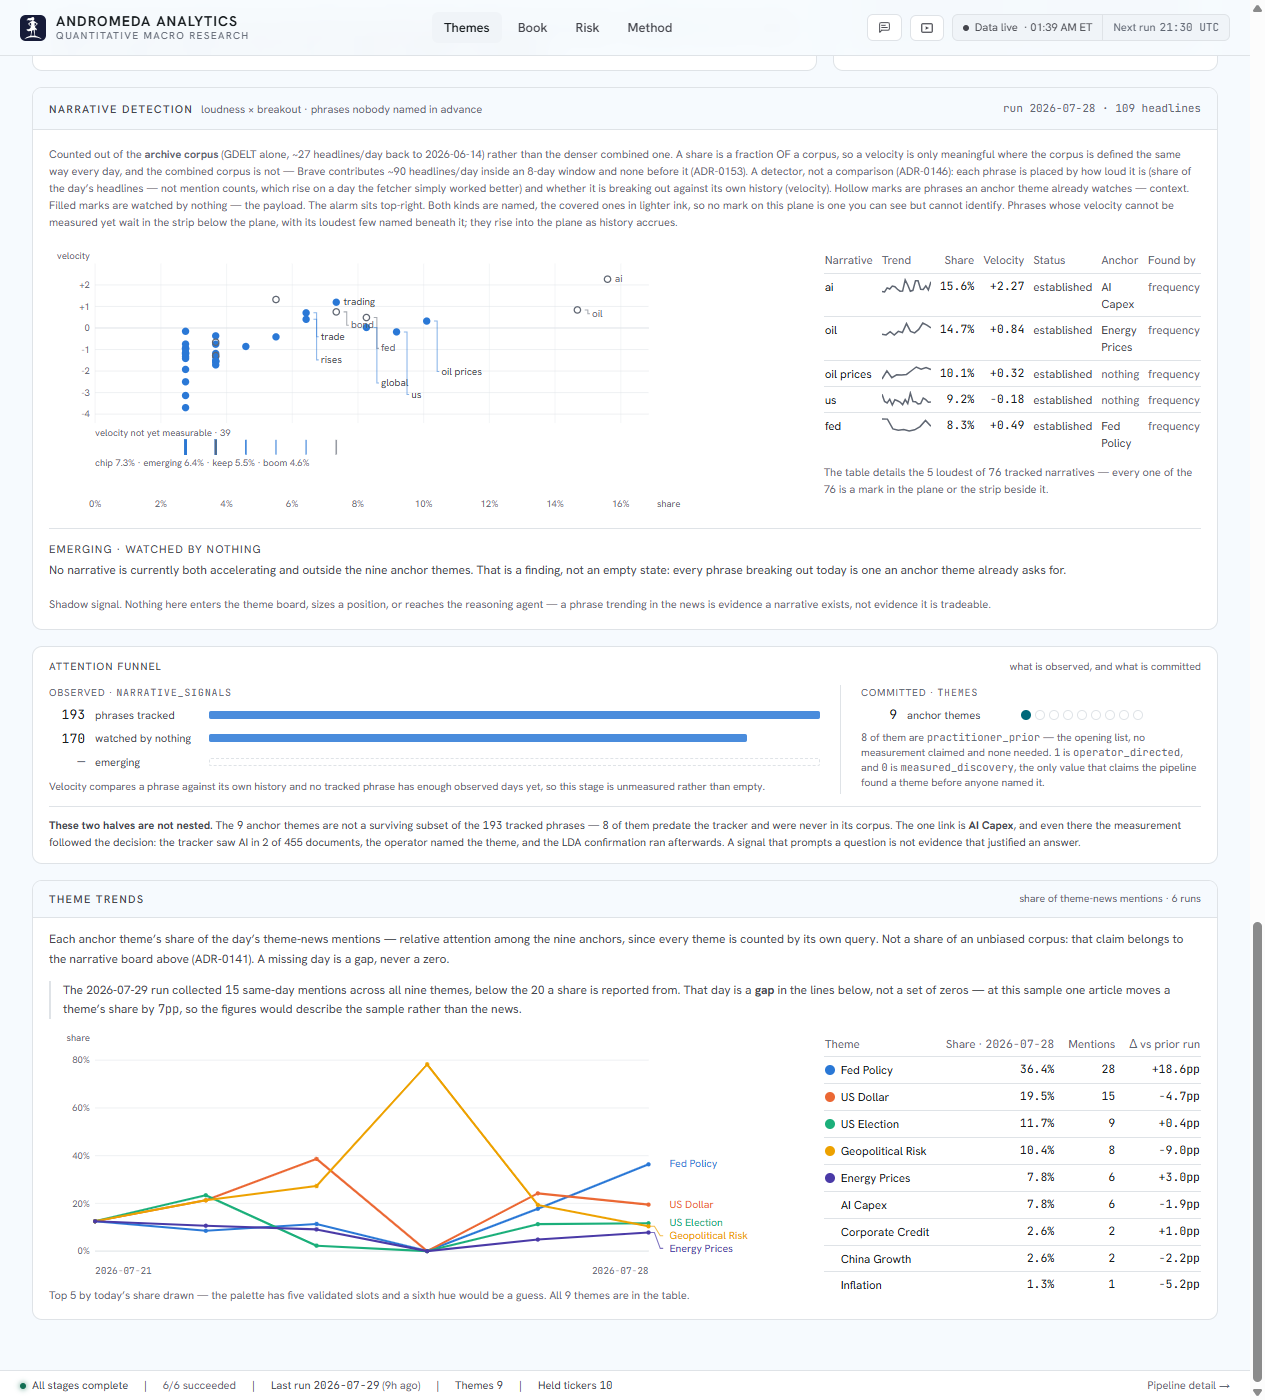
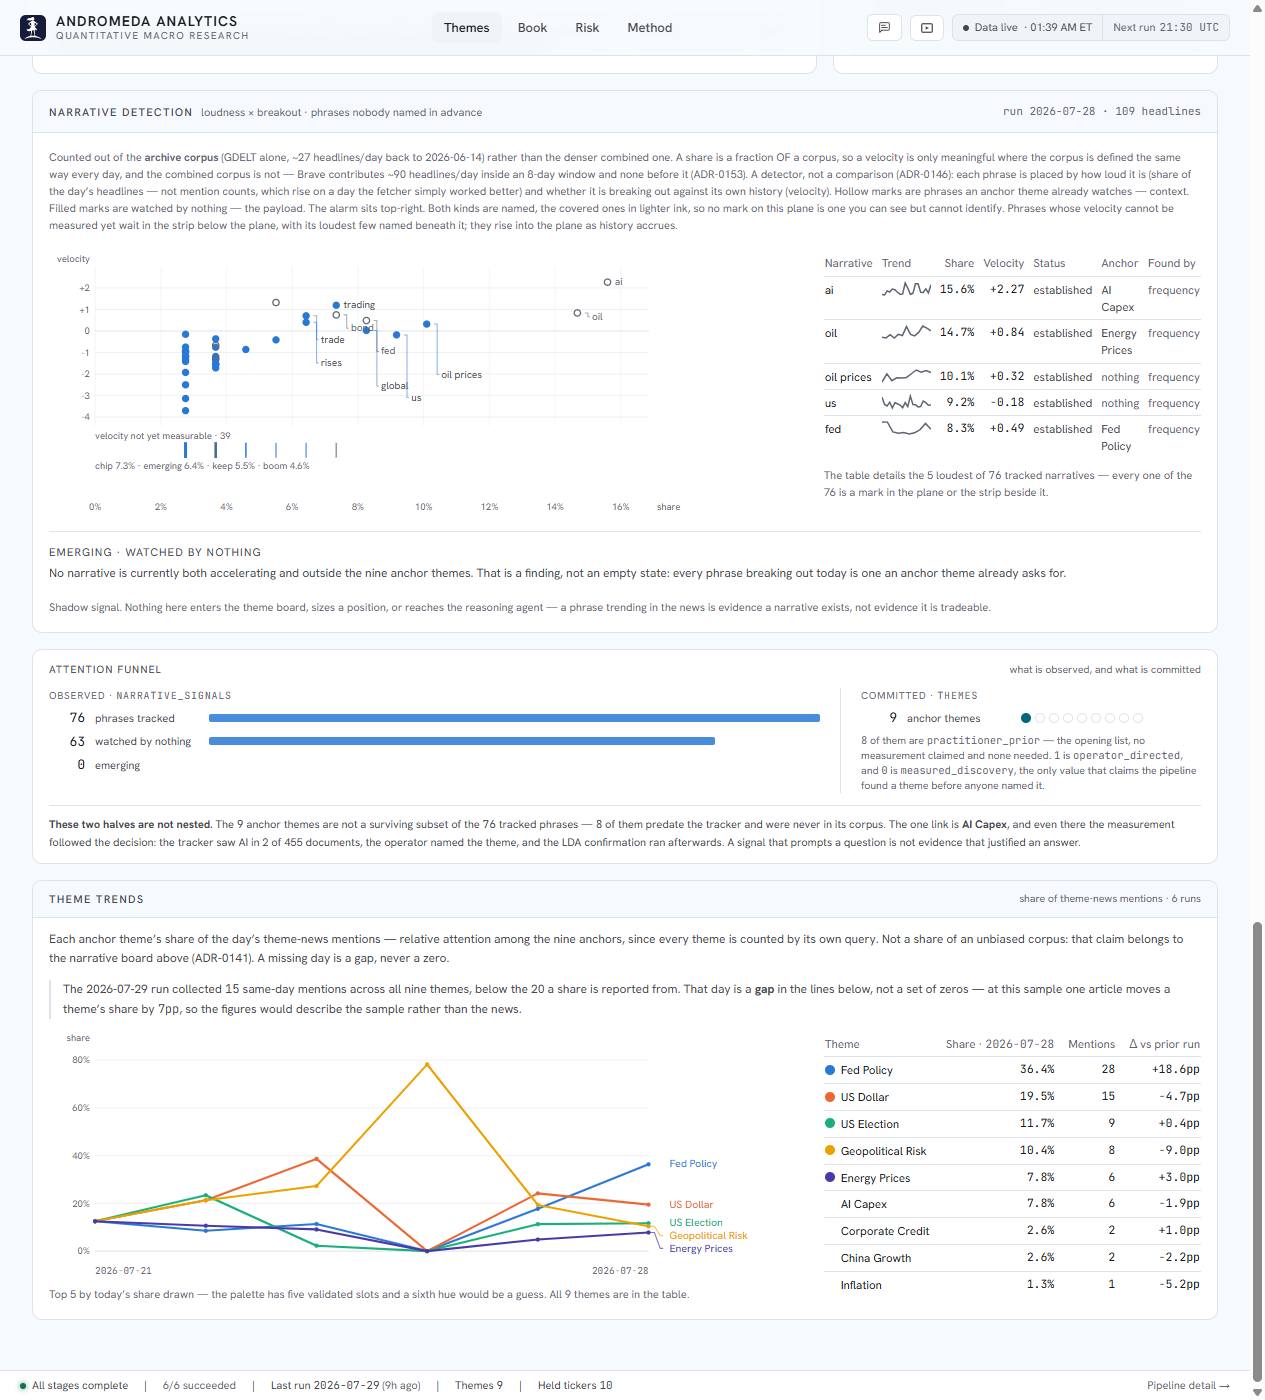
fix(ui): the funnel read a different corpus than the board above it
AttentionFunnel called fetchNarratives(), whose default is
corpus: "combined". NarrativeTrends passes "archive". So the strip read
193 phrases tracked and "velocity not measurable yet" directly beneath
a board showing 76 tracked and velocities up to +2.27.

Both were correct about their own corpus and the pair was incoherent —
the comparability failure ADR-0155 names, and the reason ADR-0153 moved
the board to archive in the first place: combined holds one run_date
and zero measurable velocities, because Brave contributes ~90
headlines/day inside an 8-day window and none before it.

Matching the corpus is necessary and not sufficient. The board also
applies ADR-0159's fallback — if the newest day has no measurable
velocity, read the most recent day that does — so a funnel keyed to
max(run_date) would still disagree on the thinnest publication day,
which is structurally every day GDELT lags. Both fixes, plus the
board's disclosure of which day the counts are from.

Switching corpora exposed a second defect: on archive the emerging
stage is measurable and reads a measured 0, and the bar's
Math.max(share*100, 1.5) floor rendered that zero as a 1.5% stub that
reads as "a few". Floored only above zero now — the same ADR-0066
distinction the dashed unmeasurable track protects one row up.

Strip now reads 76 / 63 / 0 against the board's 76, and the 0 agrees
with the board's own prose finding.

875 tests green, tsc clean, no console errors.

diff --git a/frontend/components/AttentionFunnel.tsx b/frontend/components/AttentionFunnel.tsx
@@ -46,6 +46,7 @@ import { supabase } from "@/lib/supabase";
 import {
   attentionFunnel,
   fetchNarratives,
+  latestMeasuredDate,
   toSeries,
   type AttentionFunnelCounts,
 } from "@/lib/narratives";
@@ -94,7 +95,11 @@ function ObservedBar({
         <span
           className="block h-2 rounded-sm"
           style={{
-            width: `${Math.max(share * 100, 1.5)}%`,
+            // The 1.5% floor keeps a small NON-ZERO stage visible; it must not
+            // apply at zero, or a measured 0 renders as a stub bar that reads as
+            // "a few". Zero and nearly-zero are different readings, and the
+            // figure beside the bar is already the record either way.
+            width: share > 0 ? `${Math.max(share * 100, 1.5)}%` : "0%",
             background: "var(--series-1)",
             opacity: 0.85,
           }}
@@ -107,10 +112,38 @@ function ObservedBar({
 export default function AttentionFunnel() {
   const [funnel, setFunnel] = useState<AttentionFunnelCounts | null>(null);
   const [basis, setBasis] = useState<ThemeBasis | null>(null);
+  /** Non-null when the counts are from an EARLIER day than the newest run,
+   *  because the newest carried no measurable velocity. Same fallback and same
+   *  disclosure as the board — see the corpus note in the effect below. */
+  const [asOfFallback, setAsOfFallback] = useState<string | null>(null);
 
   useEffect(() => {
-    fetchNarratives().then(({ rows, error }) => {
-      if (!error) setFunnel(attentionFunnel(toSeries(rows)));
+    // THE SAME SERIES THE BOARD ABOVE READS, on both axes that can differ.
+    //
+    // This defaulted to `fetchNarratives()` — i.e. `corpus: "combined"` — while
+    // NarrativeTrends reads `"archive"`. Two corpora on one screen, in a strip
+    // positioned as the summary of the board directly above it: the funnel said
+    // 193 tracked and "velocity not measurable yet" over a board showing 76
+    // tracked and velocities up to +2.27. Both were correct about their own
+    // corpus and the pair was incoherent, which is the comparability failure
+    // ADR-0155 names and the exact reason ADR-0153 moved the board to `archive`
+    // (`combined` holds one run_date and zero measurable velocities, because
+    // Brave contributes ~90 headlines/day inside an 8-day window and none
+    // before it, so its composition changes as providers come and go).
+    //
+    // Matching the corpus is necessary and NOT sufficient. The board also
+    // applies ADR-0159's fallback — if the newest day carries no measurable
+    // velocity, read the most recent day that does — so a funnel keyed to
+    // max(run_date) would still disagree with it on the thinnest publication
+    // day, which is structurally every day GDELT lags. Both fixes, or the strip
+    // is coherent on the corpus and wrong on the date.
+    fetchNarratives(30, "archive").then(({ rows, error }) => {
+      if (error) return;
+      const newest = toSeries(rows);
+      const measurable = newest.some((s) => s.latest.velocity !== null);
+      const measuredDay = measurable ? null : latestMeasuredDate(rows);
+      setFunnel(attentionFunnel(measuredDay ? toSeries(rows, measuredDay) : newest));
+      setAsOfFallback(measuredDay);
     });
     supabase
       .from("themes")
@@ -157,6 +190,17 @@ export default function AttentionFunnel() {
         <div className="flex flex-col gap-1.5 min-w-0">
           <span className="text-[10px] uppercase tracking-[0.08em] text-text-tertiary">
             Observed &middot; <code className="num">narrative_signals</code>
+            {/* The day these counts are FROM, whenever it is not the newest run.
+                Stated for the same reason the board states it (ADR-0159): a
+                count keyed to one day under a heading implying another is the
+                mislabel, not the fallback. */}
+            {asOfFallback && (
+              <>
+                {" "}
+                &middot; <span className="num">{asOfFallback}</span>, last
+                measured day
+              </>
+            )}
           </span>
           {funnel && (
             <>

diff --git a/PROGRESS.md b/PROGRESS.md
@@ -34,6 +34,7 @@ docs/
 
 | Date | Entry |
 |---|---|
+| 2026-07-29 | **The funnel and the board it sits between were reading different corpora — 193 tracked over a chart showing 76.** Found while explaining the narrative/theme distinction, not by a test. `AttentionFunnel` called `fetchNarratives()`, whose default is `corpus: "combined"`; `NarrativeTrends` passes `"archive"`. So one strip said **193 phrases tracked** and *"velocity not measurable yet"* directly beneath a board reading **76 tracked** with velocities up to **+2.27**. Both were correct about their own corpus and the pair was incoherent — the comparability failure ADR-0155 names, and the exact reason ADR-0153 moved the board to `archive` (`combined` holds one `run_date` and zero measurable velocities, since Brave contributes ~90 headlines/day inside an 8-day window and none before it). **Matching the corpus was necessary and not sufficient:** the board also applies ADR-0159's fallback — if the newest day carries no measurable velocity, read the most recent day that does — so a funnel keyed to `max(run_date)` would still have disagreed on the thinnest publication day, which is structurally *every* day GDELT lags. Both fixes applied, plus the board's own disclosure of which day the counts are from when it is not the newest. **Switching corpora then exposed a second defect in the day-old strip:** on `archive` the emerging stage is genuinely measurable and reads a measured **0**, and the bar's `Math.max(share*100, 1.5)` floor — added so a small non-zero stage stays visible — rendered that zero as a 1.5% stub that reads as "a few". Floored only above zero now; zero and nearly-zero are different readings, which is the same ADR-0066 distinction the dashed unmeasurable track was already protecting one row up. Strip now reads **76 / 63 / 0** against the board's 76, and the 0 agrees with the board's own prose finding (*"No narrative is currently both accelerating and outside the nine anchor themes"*). 875 tests green, tsc clean, zero console errors. **Also verified while answering, and worth knowing:** `compute_edge_score()` in `backend/services/edge_signals.py:211` carries **signature defaults that no longer match the live config** — `w_trend=0.35, w_regime=0.25, w_carry=0.20, w_value=0.20, w_sentiment=0.0`, against `scoring_config`'s actual `trend 0.20 / regime 0.23 / carry 0.34 / value 0.18 / sentiment 0.05`. The defaults are dead in production (both call sites in `daily_refresh.py` pass every weight from `cfg`), but they invert which term is heaviest — Trend rather than Carry — so a reader of that function alone, or a test that calls it without weights, gets a different model than the one that ships. Left as-is pending a decision; noted so it is not re-derived from the signature. |
 | 2026-07-29 | **The attention funnel was made graphical, and making it graphical is what proved it was lying.** [ADR-0166](docs/adrs/0166-an-arrow-between-two-counts-is-a-claim-of-nesting.md). The strip read `193 phrases tracked → 170 watched by nothing → — emerging → 9 anchor themes · 1 promoted from a signal`. Asked to draw it, the obvious execution is one proportional funnel, width ∝ count — and that is **wrong**, because a funnel's visual grammar is *subset-of*. The first two stages genuinely nest (`unwatched ⊆ tracked`, same `narrative_signals` rows). The last does not. Queried live, `themes.promotion_basis` (migration 051 / ADR-0134) is **8 `practitioner_prior`** — migration 001's opening list, which predates the tracker and was never in its corpus — **1 `operator_directed`** (AI Capex), **0 `measured_discovery`**. So the arrow chain claimed nine themes survived from 193 phrases when the true number through that path is **at most one**, and a 9-wide bar under a 193-wide bar would have asserted it far more loudly than `→` did. **"Promoted from a signal" overstated even the one:** migration 051 records the ordering as tracker sees AI in **2 of 455 documents** → operator names the theme → LDA confirmation runs *after*, which is exactly why that theme is `operator_directed` and not `measured_discovery`. A signal that prompts a question is not evidence that justified an answer. Rebuilt as **two labelled halves** (`Observed · narrative_signals` ‖ `Committed · themes`): proportional bars inside the observed half **only**; the committed half as **nine pips on no shared scale**, one filled, so it cannot be read as a fraction of 193; **a rule between them, never an arrow**; the basis counts rendered by value — and **the zero is the informative figure**, since no theme on this board was found by the pipeline before a human named it. `practitioner_prior` is deliberately *not* framed as a deficiency (migration 051: a prior is a legitimate way to start a universe, and NULL evidence there is correct rather than missing). ADR-0066 unchanged and still binding: with no measurable velocity the emerging stage is a **dashed track with no width**, never a zero-length bar — which is precisely what a bar chart's default rendering of a null looks like. **A layout bug caught in the browser rather than reasoned about:** the first draft sized each bar as a percentage of the flex ROW, so with two fixed-width siblings `width: 100%` overshot the column and painted the longest bar straight over the committed half; the bar now sizes against its own `flex-1 min-w-0` track. **The page order deliberately does NOT change** — asked whether the Narrative card should precede all Theme cards since the funnel runs narrative → theme, the answer is no: reordering `/` to match a chronology that produced *one* of nine themes would encode the same false derivation in layout form, and the narrative board is shadow and sizes nothing (ADR-0128), so leading with it ranks pipeline chronology over reader value. Also in this change: the narrative figures table's **`Already watched by` header → `Anchor`**, the only one of seven that wrapped (three lines in a 53px column — a table column is sized by its widest WORD, and "watched" at 48px was wider than any value in it). 875 frontend tests green, tsc clean, zero console errors; capture in `docs/captures/2026-07-29/attention-funnel-graphical.png`. |
 | 2026-07-29 | **Both attention boards on `/` now actually render plot ‖ figures (2fr/1fr) — the layout was already written and had never been seen.** [ADR-0165](docs/adrs/0165-a-layout-gate-belongs-to-the-thing-it-gates.md). `NarrativeTrends` and `ThemeTrends` were both built with `grid-cols-[minmax(0,2fr)_minmax(0,1fr)]`, plot left / table right — gated at **`wide` (1424px)**. `wide` is not a desktop gate: ADR-0084 derived it from `BOOK_ROW_MIN_W` and ADR-0086 pinned it at 1424-not-1440 so the **SideRail** would clear a Windows scrollbar. Borrowing it priced these cards at a rail's breakpoint. A **1920×1200 screen at Windows 11's default 150% scaling reports 1280 CSS px** — **~1265** after Chrome's classic space-taking scrollbar — so on the machine this repo is developed on, both boards stacked full-width and the split shipped to nobody. **`lg` (1024) is wrong, and measuring says so**: the narrative table is **seven columns** and wants 388px against a 297px column — a 91px horizontal scroller, which is the risk the original comment named correctly and then answered with someone else's constant. **`xl` (1280) is wrong** for the reason ADR-0086 already wrote down and this change nearly walked past twice — a media query excludes the scrollbar, so the very window that motivated the fix reports 1265 and an `xl` gate would be **dead on the exact machine it was built for**. Added **`figures: 1248px`** beside `wide: 1424px`, a deliberate departure from ADR-0086's *"one gate, one derivation, no second constant to drift"* — that rule guards two gates for the **same** concern, and collapsing two different concerns into one constant is what caused this bug. **Derived from measured min-content** (set the wrapper to 1px, read `scrollWidth`), never estimated: narrative table **388px at `pr-3` → 364px at `pr-2`**, theme table **249px**, figures column **371.7px at viewport 1248** (7.7px headroom) and **377px at 1265**. `pr-3` → `pr-2` on the narrative table **only** — six gutters × 4px buys back 24px, and the gutter was the *only* slack: every column is min-content over a real value (`established`, `AI Capex`, `not measurable`), so the next 4px truncates a reading rather than tightening a rule. The config **explicitly forbids** re-deriving the gate as `(viewport − gutter − gap)/3` — that shorthand was tried, runs through the `lg` gutter + `TerminalPane` + card `p-4` + gap, and **overstates the column by ~17px** (predicted 394, browser reports 377), enough to place the gate where the table still scrolls. `ThemeTrends`' own justification for `wide` was a separate error kept in the record: end labels "on top of the lines" **cannot happen** — `TrendPlot` is a `viewBox`, so narrowing scales labels and lines by the *same* factor; what narrowing costs is label **size**, not overlap. Verified at the boundary in the browser: **1248 splits, 1247 stacks**, 1265 splits with **no scroller in either table** and no page-level horizontal overflow. `wide` untouched, so nothing on `/book`, `/ask`, `TopBar` or `SideRail` moves. **875 frontend tests green, tsc clean, `next build` exit 0**; capture in `docs/captures/2026-07-29/trends-boards-split-1265.png`. **Two operational notes:** a Tailwind **config** change is not hot-reloaded — the `figures:` variant was absent from the served CSS until the dev server was restarted, and the first verification pass read a stale stylesheet and reported the gate as not firing. And **`next build` corrupts a running `next dev`**: the dev server 500'd immediately after the build (same `.next`), so it was restarted before the final captures rather than trusted. |
 | 2026-07-29 | **`--accent` moved crimson-pink → teal `#00687a`, and the argument is CVD separation, not contrast.** Prototyped first, then **kept on the owner's review** — [ADR-0164](docs/adrs/0164-the-accent-and-the-short-ink-were-the-same-colour.md). The decision was taken off a **before/after built from `HEAD~1` in a detached worktree**, not a CSS override, so the "before" was a real build; the comparison surface (A/B split + a vision selector that re-simulates the swatches) is what made ΔE 7.7 legible as *"these are the same olive"*. Continues the correction already in the two rows below (*"the blanket cyan/teal rejection was wrong about the teal"*), which measured the comp's teal on **AA contrast** and found it passes. Contrast was never the interesting axis — both clear AA. The interesting axis is the one `globals.css` had already flagged against itself: crimson-pink sat **8° of hue from `--short`**, so what separated "interactive" from "short" was a lightness gap being spent on contrast margin, and the accent had already darkened twice (`#e11048` → `#d40e43` → `#c50c3e`). Measured under simulated CVD (Machado 2009, severity 1.0), that gap had already closed: the old accent was **ΔE 7.7 protan / 8.6 deutan from `--short`** — below the ~10 threshold at which two colours stop being separable, for **~6% of males** — and 11.4 protan from `--long`. So `design-goals.md` goal 3 (*"a proposal that colours `LONG` the same as a hyperlink has destroyed a semantic"*) was **failing from the inside**, against SHORT. Teal measures **32.1 / 51.8 vs `--short`** and **26.2 / 25.3 vs `--long`**, and clears AA with more headroom than crimson-pink had after two darkenings: plain **5.43 → 5.83**, over its own 10% tint (`badge-tier-anchor`, `lib/sourceTokens`) **4.58 → 5.04**, `#fff` on solid **6.01 → 6.44**, paper on solid **5.73 → 6.14**, ring vs surface **5.43 → 5.83** (WCAG 1.4.11 non-text, floor 3:1 — a focus ring is not a chip, so the repo's chip test does not cover it). **Known regression, accepted and recorded:** ΔE **4.6** from `--long` under **tritanopia**, where the old accent was 110.7 — a ~0.01%-prevalence collision traded for a ~6% one, survivable only because ADR-0085's redundant encoding puts a ▲/▼ glyph or a LONG/SHORT wordmark on every direction. **Not pushed bluer**, though `#0f6490` scores better against `--long` (protan 40.2): the accent's ΔE to `--series-1 #2a78d6` falls **48.4 → 31.3 → 20.7** as it goes, which only moves the collision onto the trends board; `#00687a` holds ≥48 from every series slot. Two token sites only (`globals.css` `:root`, `tailwind.config.ts` — Tailwind compiles to literal RGB and never reads the var, so both or neither), plus `accent-dim` re-derived to `rgba(0,104,122,0.10)` for the tint-drift assertion. **875 frontend tests green (71 in `chip-contrast` alone), `next build` exit 0.** Captures in `docs/captures/2026-07-29/accent-teal-{home,book,risk,ask}.png` — the accent turns out to be used sparingly enough that the swap is visually quiet, which is the argument for it being cheap to take or leave. **Two shared-worktree notes:** `.next` was corrupted mid-run by this session's `next build` racing the concurrent session's dev server (`Cannot find module './vendor-chunks/@supabase.js'`, ports 3000 **and** 3100 already bound) — captures were taken on **3178** after a rebuild, and the served CSS was verified to contain `00687a` and zero `c50c3e` before shooting, rather than assumed. And the derivation script (`accent_probe.py`) is in the session scratchpad, **not** the repo: it duplicates the compositing maths `chip-contrast.test.ts` already owns privately, and a second copy of that arithmetic is exactly the drift the file's own header warns about. |
